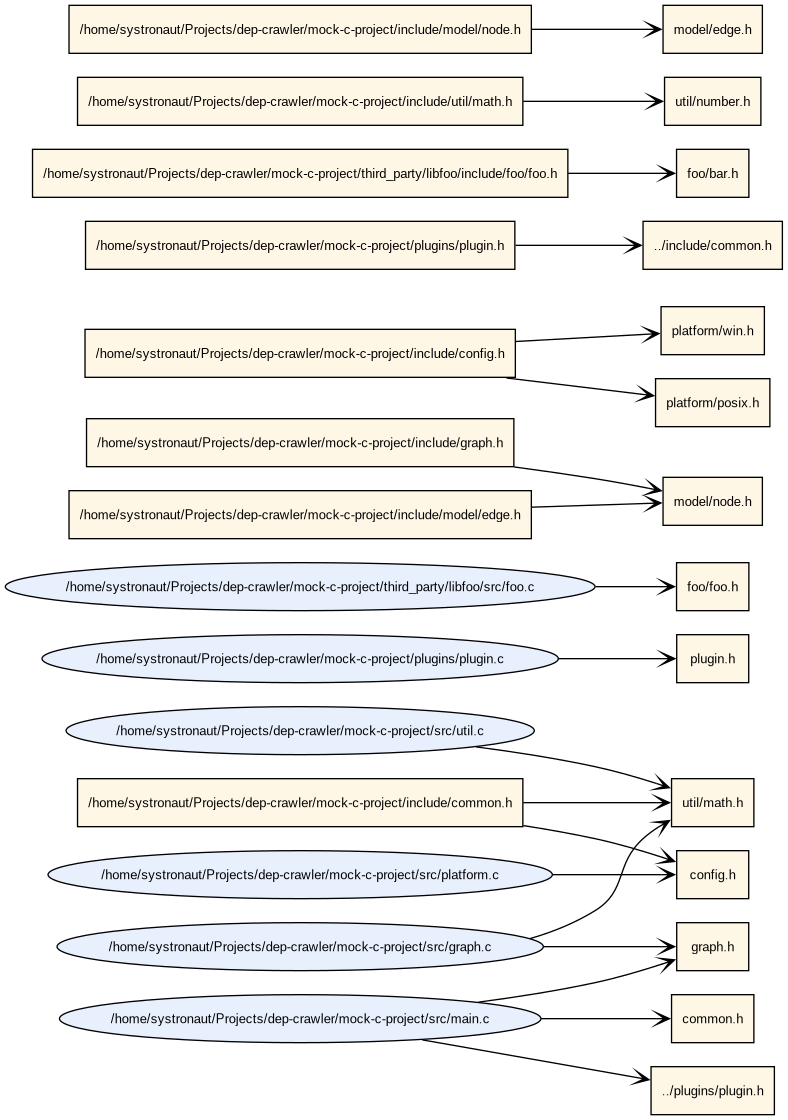
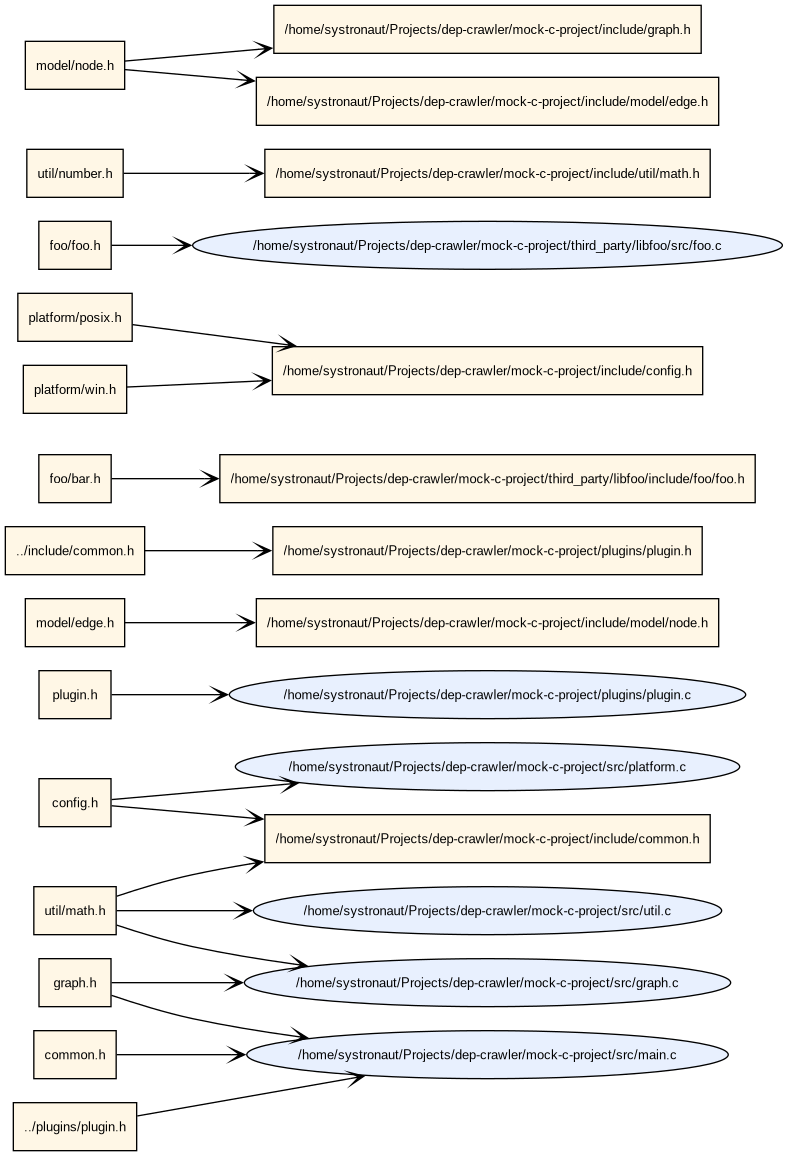
fix dot graph order

diff --git a/src/main.rs b/src/main.rs
@@ -114,7 +114,7 @@ fn cmd_scan(
         find_include_lines(&path, &mut mapping)?;
     }
 
-    let dot = write_dot(&mapping.inner, PathBuf::from(".").as_path());
+    let dot = write_dot_left_right(&mapping.inner, PathBuf::from(".").as_path());
     fs::write("dep-graph.dot", dot)?;
     Ok(())
 }
